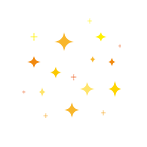
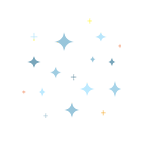
first commit

diff --git a/index.html b/index.html
@@ -2,10 +2,13 @@
 <html lang="zh">
 
 <head>
-    <title>吃掉小鹿乃</title>
-    <meta itemprop="name" content="吃掉小鹿乃" />
-    <meta itemprop="description" content="新概念音游" />
+    <title>Ices</title>
+    <meta itemprop="name" content="test" />
+    <meta itemprop="description" content="新概念test音游" />
     <meta charset="utf-8" />
+
+    <link rel="icon" type="image/png" href="https://s2.loli.net/2022/01/27/YXu9JiyB1rHDoT5.png">
+
     <meta name="viewport" content="initial-scale=1, user-scalable=no, minimum-scale=1.0, maximum-scale=1.0, width=device-width,target-densitydpi=device-dpi" />
     <link href="./static/index.css" rel="stylesheet" type="text/css">
     <script src="https://pv.sohu.com/cityjson?ie=utf-8"></script>
@@ -22,7 +25,6 @@
         <div id="GameScoreLayer-text"></div>
         <div id="GameScoreLayer-CPS" style="margin:5px 0;"></div>
         <div id="GameScoreLayer-score" style="margin:5px 0;">得分</div>
-        <div id="GameScoreLayer-bast" style="margin:5px 0">最佳</div>
         <button type="button" class="btn btn-secondary btn-lg" onclick="replayBtn()">重来</button>
         <button type="button" class="btn btn-secondary btn-lg" onclick="window.location.reload()">主页</button>
         <button type="button" class="btn btn-secondary btn-lg" onclick="window.location.href='https://github.com/arcxingye/EatKano'">开源</button>
@@ -33,7 +35,7 @@
     <div class="welcome-bg FILL"></div>
     <div class="FILL BOX-M" style="position:absolute;top:0;left:0;right:0;bottom:0;z-index:5;">
         <div style="margin:0 8% 0 9%;">
-            <div style="font-size:2.6em; color:#FEF002;">新概念音游</div><br />
+            <div style="font-size:2.6em; color:#B4E1F6;">ICES</div><br />
             <div id="desc" style="display: block;font-size:2.2em; color:#fff; line-height:1.5em;">
                 从最底下的开始<br />
                 看你20秒多少分<br />
@@ -62,12 +64,7 @@
                     <input type="button" class="btn btn-secondary btn-lg" onclick="getClickAfterImage()" value="设置点击后的图" style="right: 0">
                     <input type="file" id="click-after-image" accept="image/*" style="display: none;" onchange="saveClickAfterImage()">
                 </div>
-                <div class="input-group mb-3">
-                    <div class="input-group-prepend">
-                        <span class="input-group-text">标题</span>
-                    </div>
-                    <input type="text" id="title" class="form-control" placeholder="吃掉小鹿乃">
-                </div>
+          
                 <div class="input-group mb-3">
                     <div class="input-group-prepend">
                         <span class="input-group-text">按键</span>

diff --git a/static/index.js b/static/index.js
@@ -425,11 +425,11 @@ const MODE_NORMAL = 1, MODE_ENDLESS = 2, MODE_PRACTICE = 3;
             SubmitResults();
         }
 
-        if (cps <= 5) return '试着好好练一下？';
-        if (cps <= 8) return 'TCL';
-        if (cps <= 10)  return 'TQL';
+        if (cps <= 5) return '再接再厉！';
+        if (cps <= 8) return '不错';
+        if (cps <= 10)  return '太强了';
         if (cps <= 15) return '您';
-        return '人？';
+        return '您已经超越人类了！';
     }
 
     function toStr(obj) {
@@ -466,7 +466,7 @@ const MODE_NORMAL = 1, MODE_ENDLESS = 2, MODE_PRACTICE = 3;
     function initSetting() {
         $("#username").val(cookie("username") ? cookie("username") : "");
         $("#message").val(cookie("message") ? cookie("message") : "");
-        $("title").text(cookie("title") ? cookie("title") : "吃掉小鹿乃");
+        $("title").text(cookie("title") ? cookie("title") : "Ices");
         let keyboard = cookie('keyboard');
         if (keyboard) {
             keyboard = keyboard.toLowerCase();

diff --git a/static/index.css b/static/index.css
@@ -112,7 +112,7 @@ body {
     left: 0;
     width: 100%;
     text-align: center;
-    color: rgb(233, 138, 131);
+    color: rgb(180, 225, 246);
     font-size: 4em;
     text-shadow: 0 0 3px #fff, 0 0 3px #fff, 0 0 3px #fff;
     overflow: hidden;
@@ -146,7 +146,7 @@ body {
 .t4,
 .t5 {
     background-size: auto 100%;
-    background-image: url(./image/ClickBefore.png);
+    background-image: url(./image/3.png);
 }
 
 .tt1,
